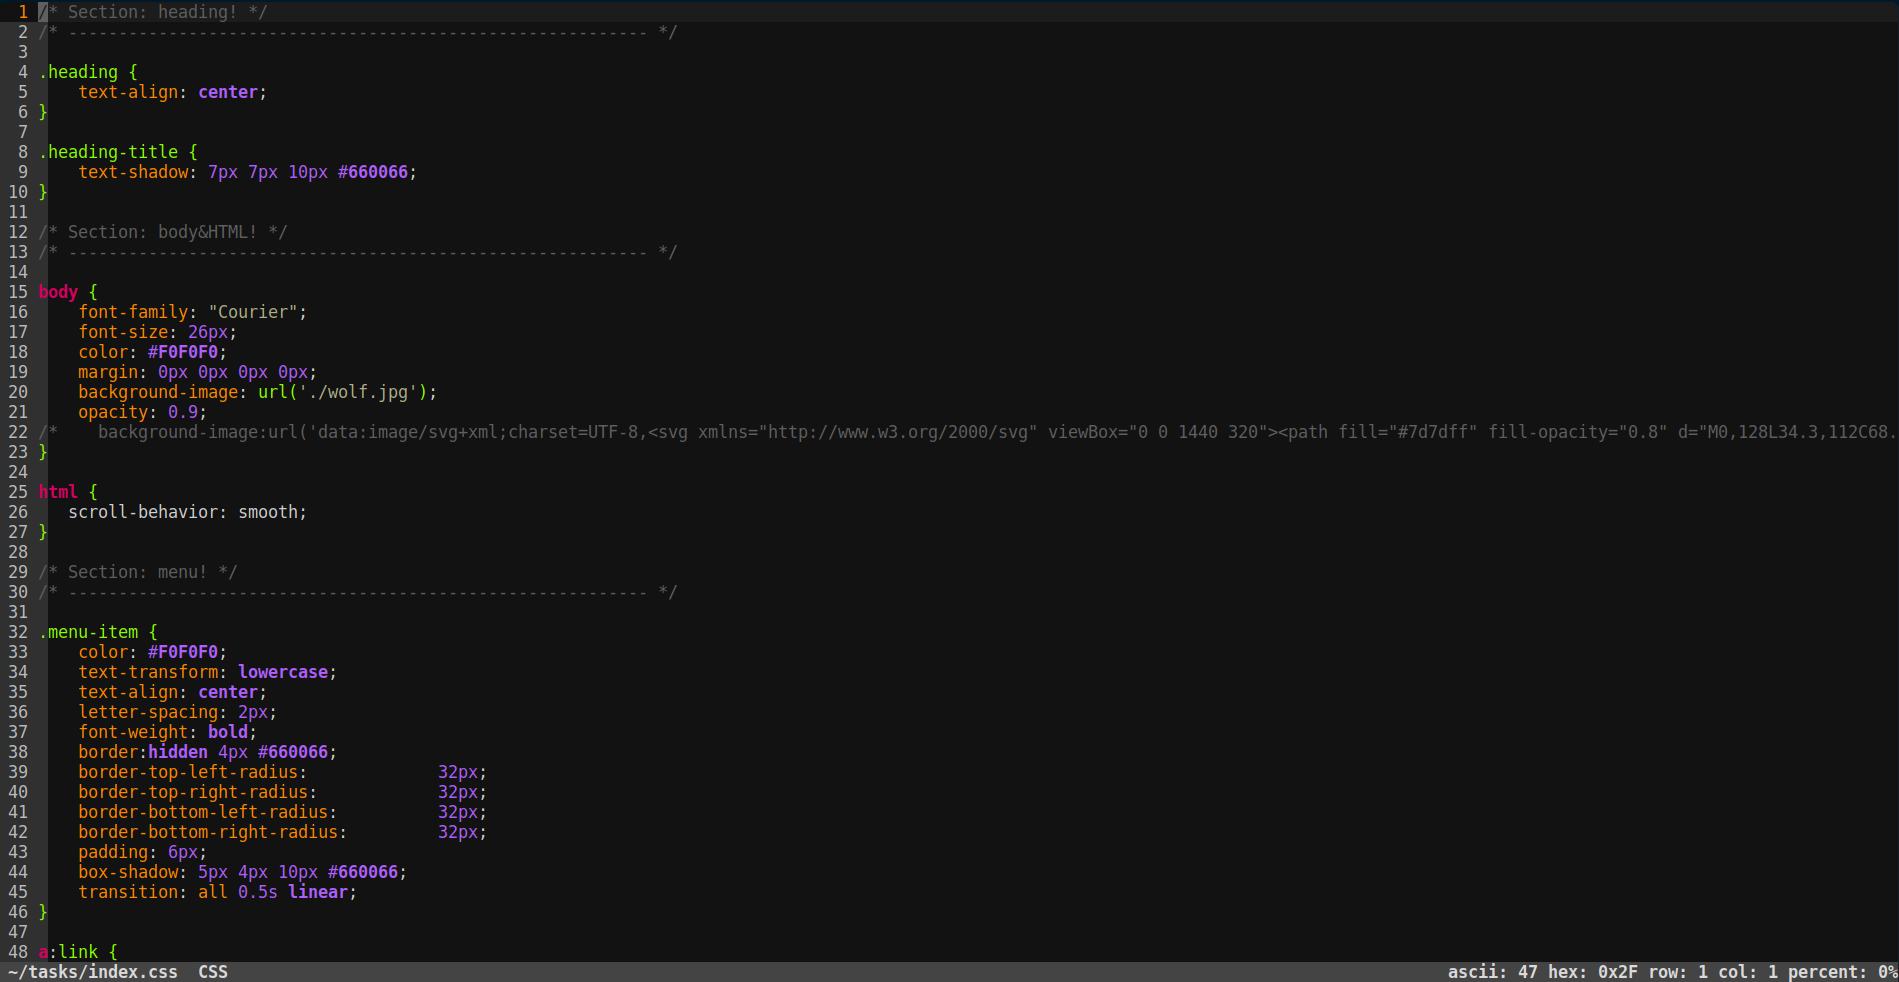
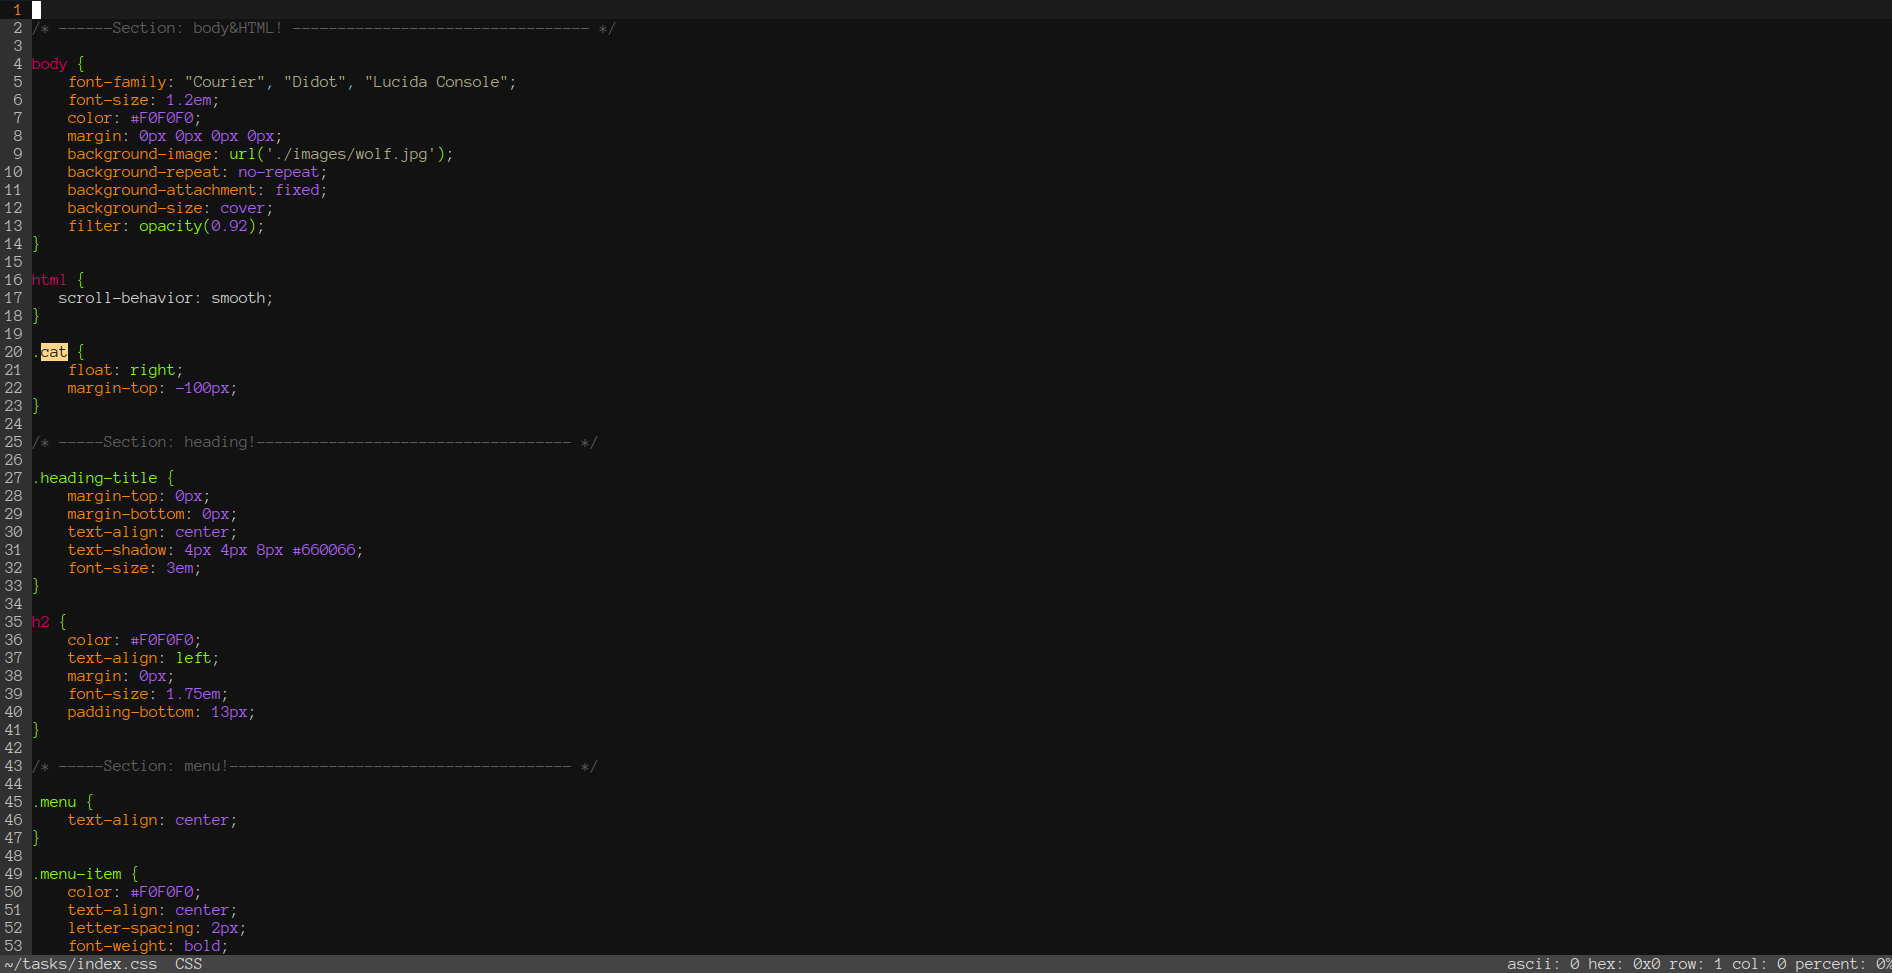
Uploaded the right PNG images.

diff --git a/index.css b/index.css
@@ -1,35 +1,8 @@
-/* Section: heading! */
-/* ---------------------------------------------------------- */
 
-h2 {
-    color: #F0F0F0;
-    text-align: left;
-    margin: 0px;
-    font-size: 1.75em;
-    padding-bottom: 13px;
-}
-
-#Aboutme {
-    padding-right: 20px;
-}
-
-.menu {
-    text-align: center;
-}
-
-.heading-title {
-    margin-top: 0px;
-    margin-bottom: 0px;
-    text-align: center;
-    text-shadow: 4px 4px 8px #660066;
-    font-size: 3em;
-}
-
-/* Section: body&HTML! */
-/* ---------------------------------------------------------- */
+/* ------Section: body&HTML! --------------------------------- */
 
 body {
-    font-family: "Courier";
+    font-family: "Courier", "Didot", "Lucida Console";
     font-size: 1.2em;
     color: #F0F0F0;
     margin: 0px 0px 0px 0px;
@@ -44,35 +17,34 @@ html {
    scroll-behavior: smooth;
 }
 
-/*
-pre #lang-js {
-   background-color: #999;
-   background-image: linear-gradient(0deg, #287b98, #C37000 82%);
-   border: 1px hidden #999;
-   width: calc(100% - 40px);
-   overflow: auto;
-   margin-left: auto;
-   margin-right: auto;
-   color: #F0F0F0;
-   font-weight: bold;
-   line-height: 28px;
-   padding-top: 10px;
-   padding-left: 20px;
-   padding-right: 20px;
-   padding-bottom: 20px;
-   border-radius: 32px;
-   position: relative;
-   display: none;
-}
-*/
-
 .cat {
     float: right;
     margin-top: -100px;
 }
 
-/* Section: menu! */
-/* ---------------------------------------------------------- */
+/* -----Section: heading!----------------------------------- */
+
+.heading-title {
+    margin-top: 0px;
+    margin-bottom: 0px;
+    text-align: center;
+    text-shadow: 4px 4px 8px #660066;
+    font-size: 3em;
+}
+
+h2 {
+    color: #F0F0F0;
+    text-align: left;
+    margin: 0px;
+    font-size: 1.75em;
+    padding-bottom: 13px;
+}
+
+/* -----Section: menu!-------------------------------------- */
+
+.menu {
+    text-align: center;
+}
 
 .menu-item {
     color: #F0F0F0;
@@ -98,14 +70,17 @@ a:link {
     cursor: pointer;
 }
 
-/* Section: content! */
-/* ---------------------------------------------------------- */
+/* -----Section: content!------------------------------------- */
 
 .anchor {
     display: block;
     position: relative;
     top: -50px;
     visibility: hidden;
+}
+
+#Aboutme {
+    padding-right: 20px;
 }
 
 p {
@@ -117,43 +92,25 @@ p {
     font-style: italic;
 }
 
-.column {
-    columns: 22rem;
-    column-gap: 2em;
-    hyphens: auto;
-    text-align: justify;
-    padding-bottom: 13px;
-}
-
 .section-content {
     max-width: 50em;
     width: calc(100% - 30px);
     margin: auto;
 }
 
-ul {
-    text-align: justify;
-    hyphens: auto;
-    padding-left: 20px;
-    margin: 0px;
-}
-
-li {
-    padding-top: 9px;
-    padding-bottom: 9px;
-}
-
-strong {
-    /* color: #00 2c 50; */
-    color: rgb(160,210,255);
-}
-
-/* Section: aboutme-content: modal&buttons */
-/* ---------------------------------------------------------- */
+/* ----Section: aboutme-content: modal&buttons----------------------------------- */
 
 pre[class*=language-] {
     padding: 26px;
     border-radius: 32px;
+}
+
+.column {
+    columns: 22rem;
+    column-gap: 2em;
+    hyphens: auto;
+    text-align: justify;
+    padding-bottom: 13px;
 }
 
 #contact-data {
@@ -173,9 +130,11 @@ pre[class*=language-] {
     transform: scale(1.3);
 }
 
+#block-code {
+    padding: 4px;
+}
 
-/* Section: Development-content: modal&buttons */
-/* ---------------------------------------------------------- */
+/* ----Section: Development-content: modal&buttons------------------------------ */
 
 .inline-img {
     height: 1em;
@@ -250,12 +209,24 @@ button:hover {
     cursor: grab;
 }
 
-#block-code {
-    padding: 4px;
+ul {
+    text-align: justify;
+    hyphens: auto;
+    padding-left: 20px;
+    margin: 0px;
 }
 
-/* Section: svg! */
-/* ---------------------------------------------------------- */
+li {
+    padding-top: 9px;
+    padding-bottom: 9px;
+}
+
+strong {
+    /* color: #00 2c 50; */
+    color: rgb(160,210,255);
+}
+
+/* ----Section: sections, sticky + svg!-------------------------------------------------- */
 
 .section { 
     background-position: center bottom;

diff --git a/index.js b/index.js
@@ -22,6 +22,7 @@ window.onload = function() {
         }
     }
 
+    //sticky header:
     let section_menu = document.getElementsByClassName("section-menu")[0];
     let sticky = section_menu.offsetTop;
     let inner = document.getElementsByClassName("inner")[0];
